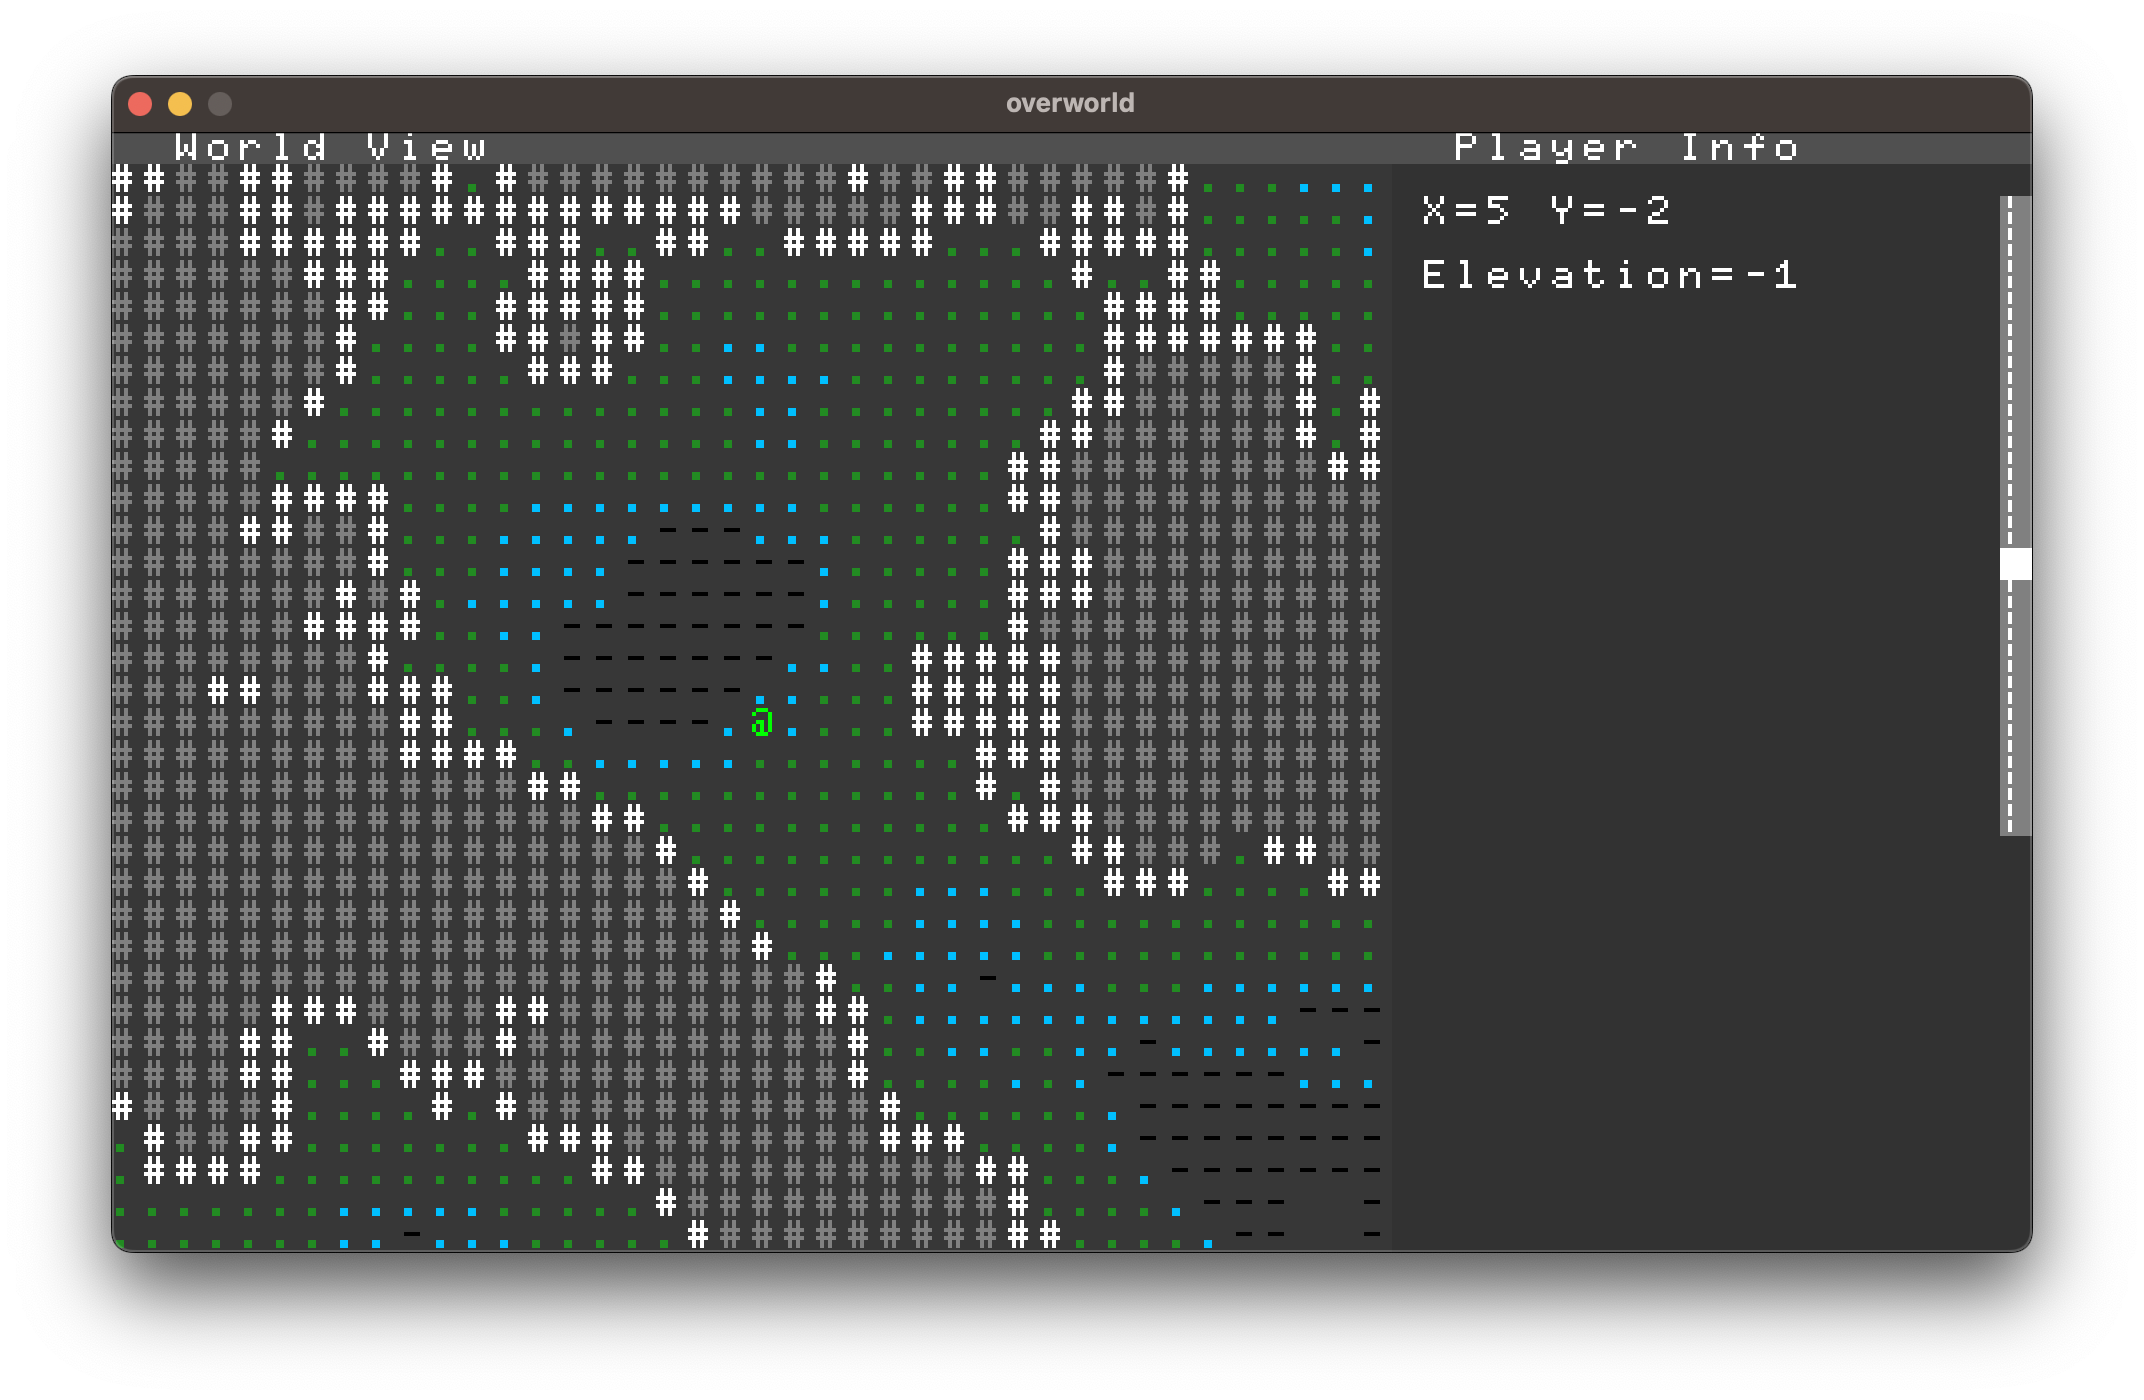
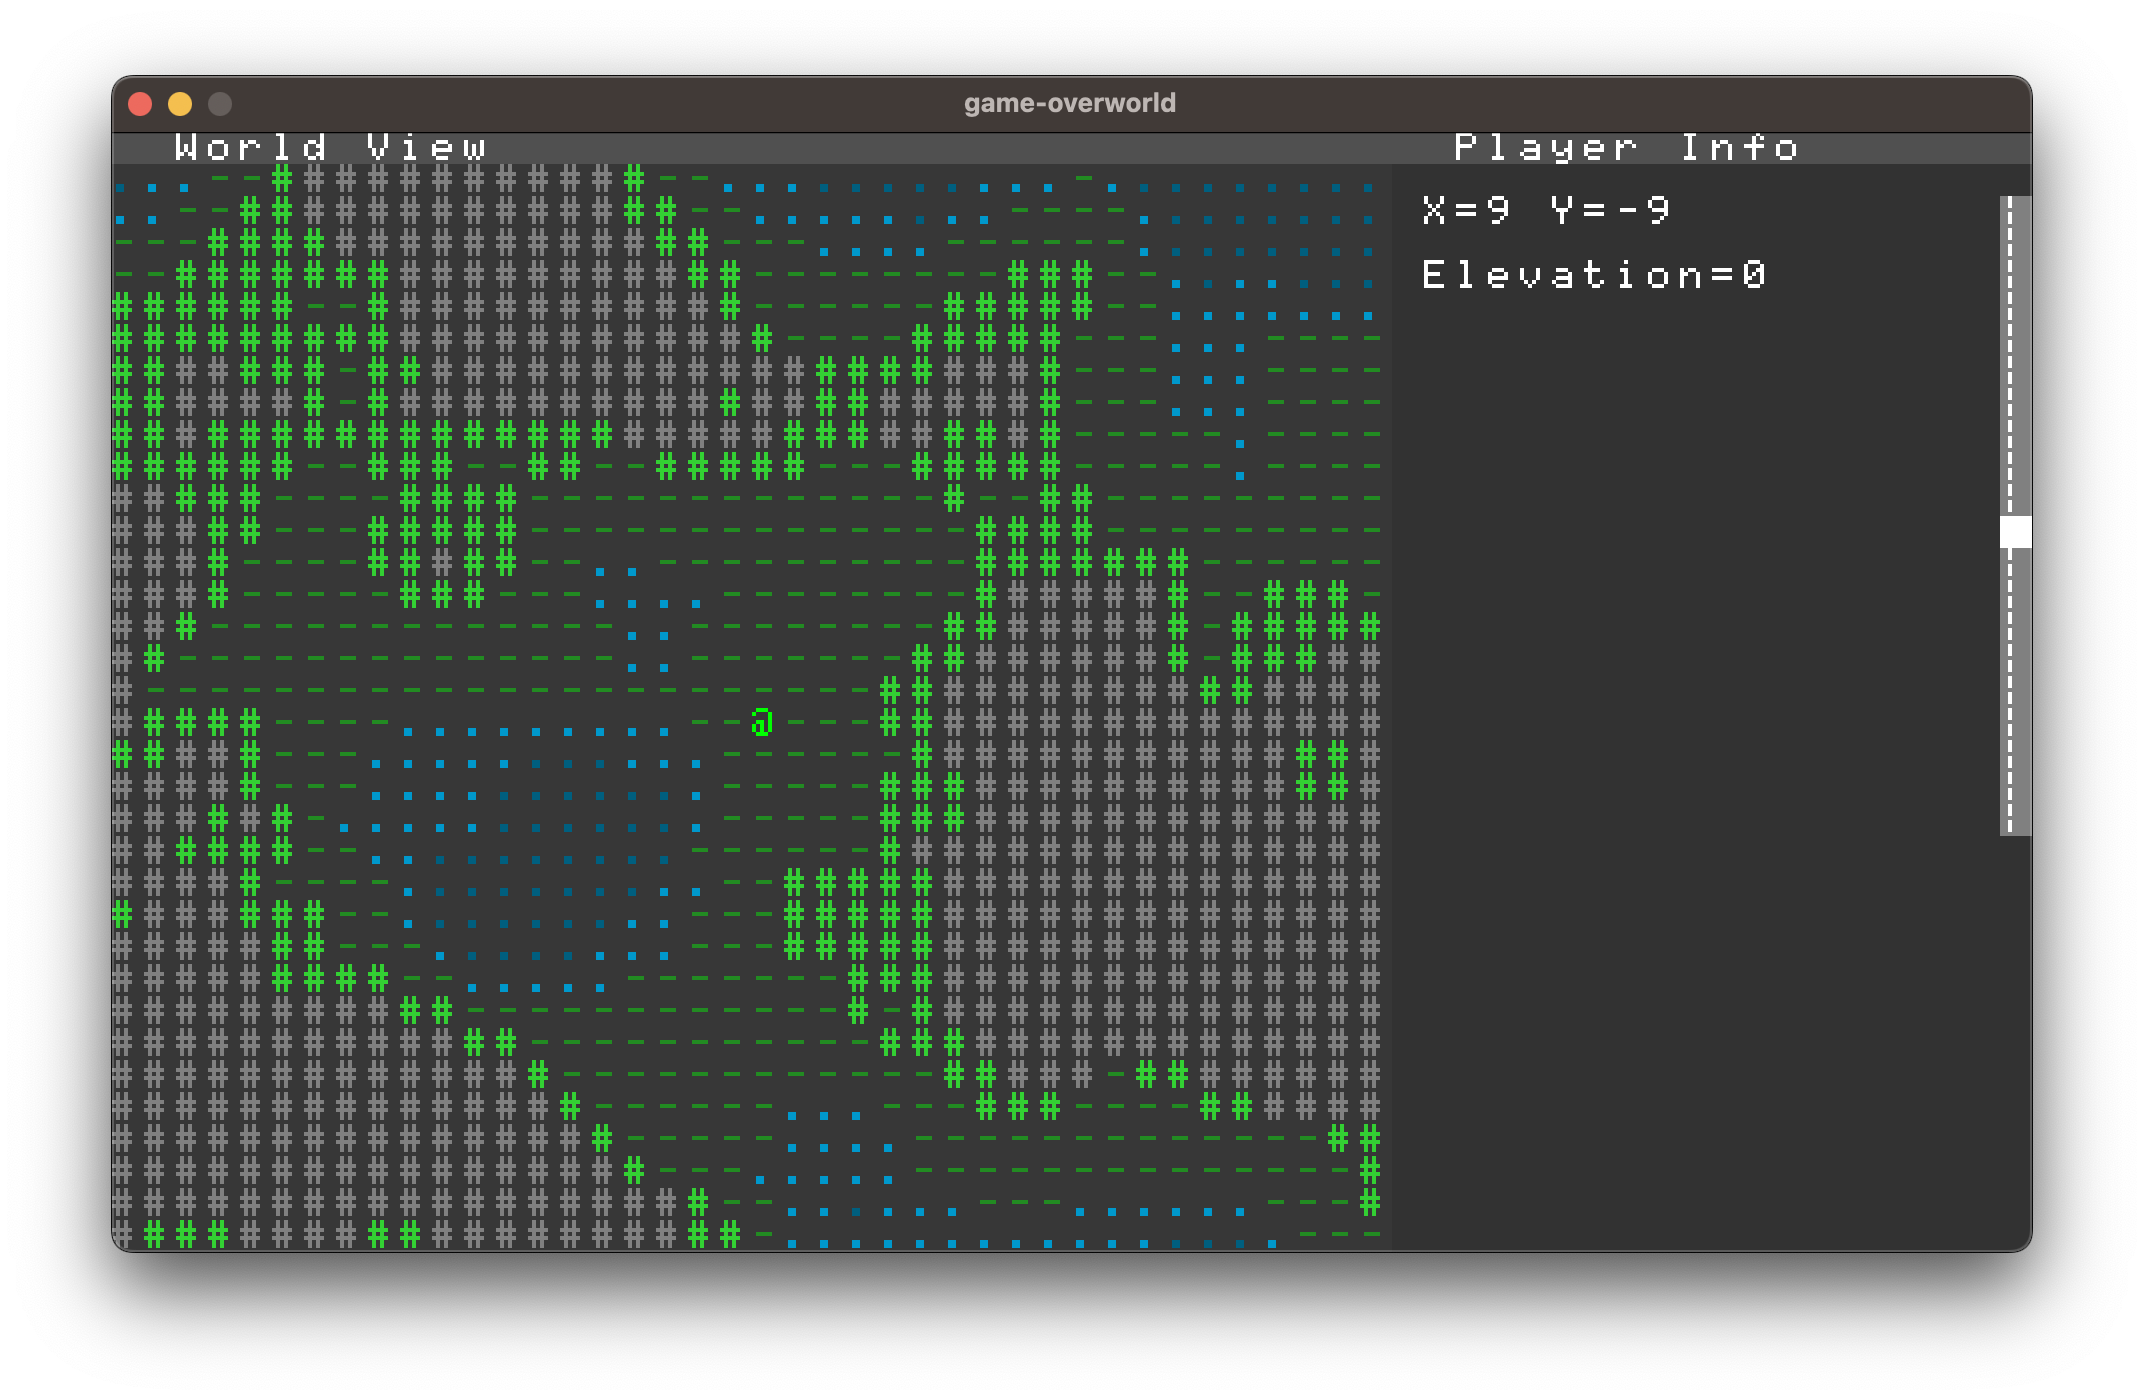
gameoverworld: Improved colors

diff --git a/gameoverworld/gameoverworld.go b/gameoverworld/gameoverworld.go
@@ -120,39 +120,37 @@ func (g *Game) PreRender(screen *ebiten.Image, timeDelta float64) error {
 	maxX := player.X + midX
 	maxY := player.Y + midY
 
-	verticalRange := 2 // Range per elevation level
+	verticalRange := 1 // Range per elevation level
 
 	// draw world
 	for y := minY; y < maxY; y++ {
 		for x := minX; x < maxX; x++ {
 			elevation := g.ElevationLevelAt(x, y)
-			if elevation < g.currentElevation {
-				var con concolor.Color
-				if g.currentElevation-elevation <= verticalRange {
-					con = concolor.RGB(0, 0, 0)
-				} else {
-					con = concolor.RGB(55, 55, 55)
-				}
-				g.worldView.Transform(midX-player.X+x, midY-player.Y+y, t.CharByte('-'), t.Foreground(con))
-				continue
-			}
-			if elevation >= g.currentElevation+verticalRange {
-				var con concolor.Color
-				if elevation-g.currentElevation <= verticalRange {
-					con = concolor.RGB(255, 255, 255)
-				} else {
-					con = concolor.RGB(128, 128, 128)
-				}
-				g.worldView.Transform(midX-player.X+x, midY-player.Y+y, t.CharByte('#'), t.Foreground(con))
-				continue
-			}
 			var con concolor.Color
 			if elevation < 0 {
 				con = concolor.RGB(0, 191, 255)
 			} else {
 				con = concolor.RGB(34, 139, 34)
 			}
-			g.worldView.Transform(midX-player.X+x, midY-player.Y+y, t.CharByte('.'), t.Foreground(con))
+			if elevation < g.currentElevation {
+				if g.currentElevation-elevation <= verticalRange {
+					con = darkenColor(con, 0.8)
+				} else {
+					con = darkenColor(con, 0.5)
+				}
+				g.worldView.Transform(midX-player.X+x, midY-player.Y+y, t.CharByte('.'), t.Foreground(con))
+				continue
+			}
+			if elevation >= g.currentElevation+verticalRange {
+				if elevation-g.currentElevation <= verticalRange {
+					con = darkenColor(con, 1.2)
+				} else {
+					con = concolor.RGB(80, 80, 80)
+				}
+				g.worldView.Transform(midX-player.X+x, midY-player.Y+y, t.CharByte('#'), t.Foreground(con))
+				continue
+			}
+			g.worldView.Transform(midX-player.X+x, midY-player.Y+y, t.CharByte('-'), t.Foreground(con))
 		}
 	}
 
@@ -173,6 +171,11 @@ func (g *Game) PreRender(screen *ebiten.Image, timeDelta float64) error {
 		}
 	}
 	return nil
+}
+
+func darkenColor(c concolor.Color, amount float64) concolor.Color {
+	r, g, b := c.R, c.G, c.B
+	return concolor.RGB(uint8(float64(r)*amount), uint8(float64(g)*amount), uint8(float64(b)*amount))
 }
 
 func (g *Game) ElevationLevelAt(x, y int) int {
